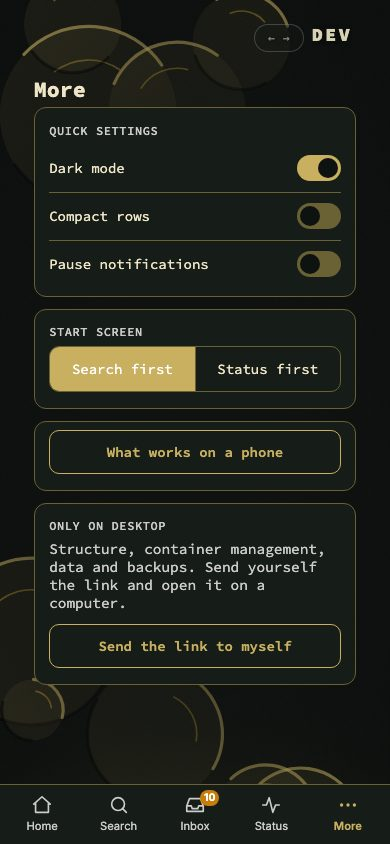
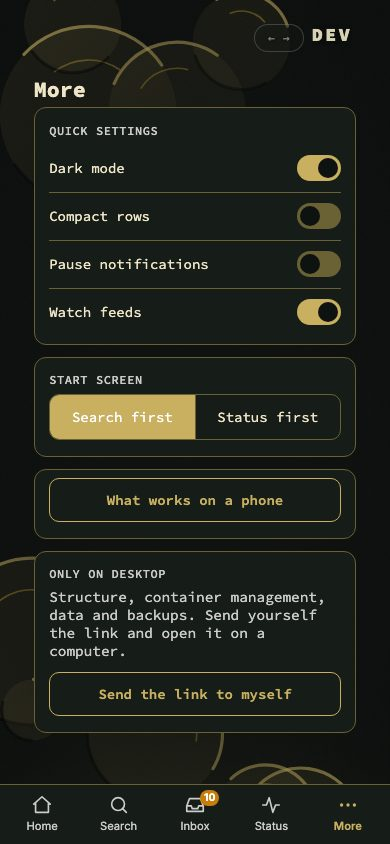
Docs: the Watch feeds switch in More

Changed region(s): [[0.0923, 0.3389, 0.9231, 0.8626], [0.8615, 0.8009, 0.9231, 0.8318], [0.8308, 0.7701, 0.8615, 0.8009]]

diff --git a/MANUAL.md b/MANUAL.md
@@ -2776,7 +2776,7 @@ The first visit plays a four-step tour: the waiting room the inbox is, reading, 
 
 ### 14.2 What you see
 
-- **News.** The **Watch feeds news** widget ([§16.1](#161-the-kinds)) lists the sites with news on the dashboard. A bookmark with news gets a badge with a halo (from ten items on it reads *9+*) that stays, and stays clickable, until you have read the news; for the first hour after the news arrives (**Config → Watch feeds → Settings**) the row also gets a pulse, a stripe, a bold name and the newest headline; a feed icon marks watched bookmarks (**Settings → Show a feed icon on watched bookmarks**, on). One row in the notifications bell ([§4](#the-notifications-bell)) covers all sites and is updated in place as more arrives, the browser tab shows a count, and **Notify when a watched feed has news** (Config → Watch feeds → Settings, on by default) sends a notification. Hovering shows the preview card that leads with the news (**Open reader**, **Open page** and a pager for up to ten items, [§4](#the-link-preview-card)). Clicking a row with news opens a popover with six headlines, a **Reader** button and an open-site button; "+n more" expands it in place up to 10. On a phone there is no hover: a tap shows the headlines first (five), **Reader** opens the news window, and the bar on top goes to the site.
+- **News.** The **Watch feeds news** widget ([§16.1](#161-the-kinds)) lists the sites with news on the dashboard. A bookmark with news gets a badge with a halo (from ten items on it reads *9+*) that stays, and stays clickable, until you have read the news; for the first hour after the news arrives (**Config → Watch feeds → Settings**) the row also gets a pulse, a stripe, a bold name and the newest headline; a feed icon marks watched bookmarks (**Settings → Show a feed icon on watched bookmarks**, on). One row in the notifications bell ([§4](#the-notifications-bell)) covers all sites and is updated in place as more arrives, the browser tab shows a count, and **Notify when a watched feed has news** (Config → Watch feeds → Settings, on by default) sends a notification. Hovering shows the preview card that leads with the news (**Open reader**, **Open page** and a pager for up to ten items, [§4](#the-link-preview-card)). Clicking a row with news opens a popover with six headlines, a **Reader** button and an open-site button; "+n more" expands it in place up to 10. On a phone there is no hover: a tap shows the headlines first (five), **Reader** opens the news window, and the bar on top goes to the site. **More → Quick settings → Watch feeds** hides all of this on one phone ([§23](#23-phones-tablets-and-the-installed-app)).
 
 <p align="center"><img src="screenshots/manual.md/12-watch-feeds-flow.svg" alt="A site feed is read by the nextDash server on the interval you chose, from 30 minutes to 24 hours. What it finds appears in three places: a row on the dashboard with a stripe, a bold name and a badge; the preview card on hover, with Open reader and Open page; and the news window opened with Shift and N, which comes in three layouts. Small dots travel from the feed to the server and on to the three places, which light up when the news arrives" width="720"></p>
 <p align="center"><sub>From feed to screen: nextDash reads, and the news shows on the row, in the preview card and in the news window.</sub></p>
@@ -5233,7 +5233,7 @@ On a phone the footer with search and add is replaced by a bar with five tabs. *
 | **Search** | A compact search sheet ([Search on a phone](#search-on-a-phone)) |
 | **Inbox** | The Inbox, with 44 px targets for a thumb |
 | **Status** | Every monitored bookmark with its state, the news of watched feeds and the pause for notifications |
-| **More** | Quick settings, the start screen choice, a guide to what works on a phone, and a link to send yourself |
+| **More** | Quick settings (including a Watch feeds switch), the start screen choice, a guide to what works on a phone, and a link to send yourself |
 
 <a id="the-start-screen"></a>
 
@@ -5255,10 +5255,10 @@ On a phone the footer with search and add is replaced by a bar with five tabs. *
 
 **Pausing notifications.** Under the list, **Pause for 1 hour** and **Until tomorrow** (07:00) stop notifications at once. The server holds the alerts the way quiet hours do ([§12](#12-checks-health)) and sums them up afterwards, except what **Always let through** allows, and feed news pushes are skipped. While a pause runs, Status says when it ends and offers **Resume notifications**, and **Config → Monitoring → Schedules** shows the same pause with a **Resume now** button. The same switch is under **Pause notifications** in More.
 
-<p align="center"><img src="screenshots/manual.md/23-phone-status.jpg" alt="The Status screen on a phone: the heading Status, the line Everything is fine, and a list of monitored services such as Docker docs, GitHub and Hacker News, each with a green dot and 100.0% up in 24 h, above the tab bar with Status highlighted" width="300"> <img src="screenshots/manual.md/23-phone-more.jpg" alt="The More screen on a phone: Quick settings with switches for Dark mode, Compact rows and Pause notifications, a Start screen choice between Search first and Status first, a What works on a phone button and an Only on desktop card with a Send the link to myself button" width="300"></p>
+<p align="center"><img src="screenshots/manual.md/23-phone-status.jpg" alt="The Status screen on a phone: the heading Status, the line Everything is fine, and a list of monitored services such as Docker docs, GitHub and Hacker News, each with a green dot and 100.0% up in 24 h, above the tab bar with Status highlighted" width="300"> <img src="screenshots/manual.md/23-phone-more.jpg" alt="The More screen on a phone: Quick settings with switches for Dark mode, Compact rows, Pause notifications and Watch feeds, a Start screen choice between Search first and Status first, a What works on a phone button and an Only on desktop card with a Send the link to myself button" width="300"></p>
 <p align="center"><sub>Status, and More.</sub></p>
 
-**More.** Quick settings has **Dark mode**, **Compact rows** (off goes back to the row height you had) and **Pause notifications**. Below come the start screen choice, **What works on a phone** (one screen listing what works on the phone and what needs a desktop; it is also what the cheat sheet opens on a phone) and **Only on desktop**, with **Send the link to myself** to open nextDash on a computer for the rest: Structure, container management, data and backups.
+**More.** Quick settings has **Dark mode**, **Compact rows** (off goes back to the row height you had), **Pause notifications** and **Watch feeds**. **Watch feeds** off hides what the feeds you follow show on this phone ([§14](#14-watch-feeds)): the feed icon and badge on rows, the preview card's news, the *Watched feeds* card on Status, the bell row and the count in the tab title, and the phone stops fetching the watch list. The feeds stay watched and the server keeps polling them, so a computer and the push notifications are unchanged. The choice is kept in this browser, not on the server. Below come the start screen choice, **What works on a phone** (one screen listing what works on the phone and what needs a desktop; it is also what the cheat sheet opens on a phone) and **Only on desktop**, with **Send the link to myself** to open nextDash on a computer for the rest: Structure, container management, data and backups.
 
 **The quick start waits for a desktop.** On a phone the quick start does not open; Home says to go through it once on a computer first.
 
